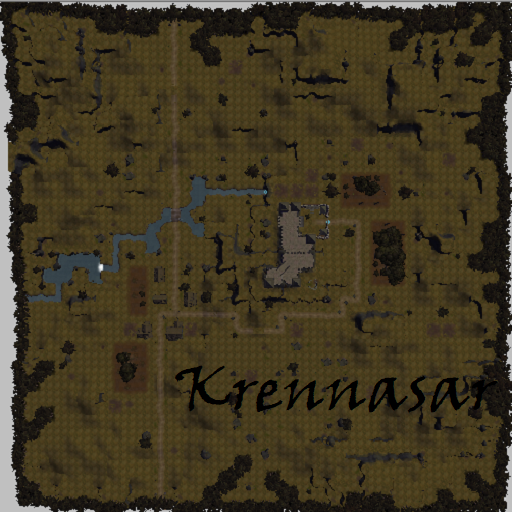
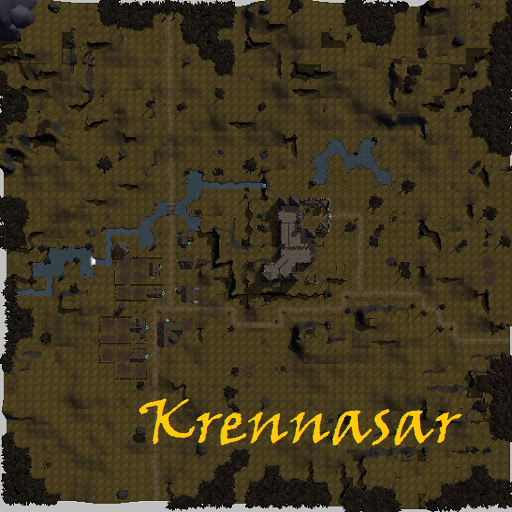
v220122

diff --git a/common.js b/common.js
@@ -17,12 +17,12 @@ var map = {
         '0map',          '0map',          '0map',        '0map',        '0map',         '0map',            '0map',           '0map',            '0map',            '0map',            '0map',            '0map',            '0map',            '0map',            '0map',            '0map',            '0map',            '0map',            '0map',            '0map',           '0map',           '0map',                '0map',            '0map',            '0map',            '0map',         '0map',             '0map',         '0map',         '0map',       
         '0map',          '0map',          '0map',        '0map',        '0map',         '0map',            '0map',           '0map',            '0map',            '0map',            '0map',            '0map',            '0map',            '0map',            '0map',            '0map',            '0map',            '0map',            '0map',            '0map',           '0map',           '0map',                't_varyth_torf_w', 't_varyth_tor',    't_varyth_torf_e', '0map',         '0map',             '0map',         '0map',         '0map',       
         't_zazesspur_nw','t_zazesspur_ne','0map',        '0map',        '0map',         '0map',            '0map',           '0map',            '0map',            '0map',            '0map',            '0map',            '0map',            '0map',            '0map',            '0map',            '0map',            '0map',            't_lhestyn_quay',  't_masamont_road','t_masamount',    't_masamount_wudn',    't_varyth_torf_sw','t_varyth_torf_s', 't_varyth_torf_se','0map',         '0map',             '0map',         '0map',         '0map',       
-        't_zazesspur_sw','t_zazesspur_se','t_venazir_ne','SulZaz2',     '0map',         '0map',            't_tethyrcast_nw','t_tethyrcast_n',  't_tethyrcast_ne', 'SuldusBard1',     '0map',            'IthmonSulW',      't_hostim_quay',   'IthmonSulE',      't_ithmn_sul_e1',  't_ithmn_sul_e2',  't_grannox',       't_grannox_farms', 't_lhestynheart',  't_freelm_farms', 't_freelmanse',   't_masamount_wuds',    't_varyth_plain_w','t_varyth_plain_c','t_varyth_plain_e','0map',         '0map',             '0map',         '0map',         '0map',       
+        't_zazesspur_sw','t_zazesspur_se','t_venazir_ne','SulZaz2',     '0map',         '0map',            't_tethyrcast_nw','t_tethyrcast_n',  't_tethyrcast_ne', 'SuldusBard1',     '0map',            'IthmonSulW',      't_hostim_quay',   't_ithmn_sul_e',   't_ithmn_sul_e1',  't_ithmn_sul_e2',  't_grannox',       't_grannox_farms', 't_lhestynheart',  't_freelm_farms', 't_freelmanse',   't_masamount_wuds',    't_varyth_plain_w','t_varyth_plain_c','t_varyth_plain_e','0map',         '0map',             '0map',         '0map',         '0map',       
         't_venazir_sw',  't_venazir_s',   't_venazir_se','SulZaz3',     'SulZaz4',      'SulZaz5',         't_tethyrcast_w', 't_tethyrcast',    't_tethyrcast_e',  'SuldusBard2',     'SuldusBard3',     'SuldusBard4',     't_hostim',        '0map',            't_ithmon_crag_nw','t_ithmon_crag_ne','t_lhest_gorge',   't_lhest_farm_sw', 't_lhest_farm_s',  't_lhest_farm_se','t_rivshrehill_n','t_rivshrehill_ne',    't_varyth_hill_nw','t_varyth_hill_n', 't_varyth_hill_ne','t_iltarghal',  '0map',             't_survale',    '0map',         '0map',       
         '0map',          '0map',          'OldKingRoad1','OldKingRoad2','OldKingRoad3', 'OldKingRoad4',    't_tethyrcast_sw','t_tethyrcast_s',  't_tethyrcast_se', '0map',            '0map',            't_hostim_hill_w', 't_hostim_road',   't_hostim_hill_e', 't_ithmon_crag_sw','t_ithmon_crag_se', 't_qonsir',        't_qonsir_farm',   't_lhest_road',    't_rivshrehill_w','t_rivshrehill_c','t_st_ostus',          't_varyth_hill_sw','t_varyth_hill_s', 't_varyth_hill_se','0map',         '0map',             '0IthalRoadNS', '0map',         '0map',       
         '0map',          '0map',          '0map',        '0map',        '0map',         't_sahark_crossrd','t_saharkhan',    't_bardshy_itr_1', 't_bardshy_itr_2', 't_bardshy_itr_3', 't_bardshy_itr_4', 't_ithmon_ithr_w1','t_ithmon_ithr_w2','t_ithmon_lorcros','t_ithmon_ithr_e1','t_ithmon_ithr_e2','t_rvrshr_ithrdw', 't_crownfarms_nw', 't_crownfarms_n',  't_crownfarms_ne','t_rivshrehill_s','t_rivshrehill_se',    '0map',            '0map',            't_thrynnar_hold', '0IthalRoadWE', '0IthalRoadWE',     '0IthalRoadNWE','0IthalRoadWS', '0map',       
-        '0map',          '0map',          '0map',        '0map',        '0map',         '0IthalRoadNS',    '0map',           '0map',            '0map',            '0map',            '0map',            '0map',            't_ithmon_farm_nw','t_ithmon_farm_n', 't_ithmon_farm_ne','t_loransewood_n', 't_crownfarms_iw2','t_crownfarms_iw1','t_darromar',      't_foyen_rd',     't_foyen',        '0map',                '0map',            '0map',            '0IthalRoadNS',    '0map',         '0map',             '0map',         '0IthalRoadEN', 't_veaddakar',       
-        '0map',          '0map',          '0map',        't_dasaajk',   '0map',         '0IthalRoadNS',    '0map',           '0map',            '0map',            '0map',            '0map',            '0map',            't_ithmon_farm_w', 't_ithmon_loranse','t_ithmon_farm_e', 't_loransewood_s', '0map',            't_clov_fld_nw',   't_clov_fld_itr_n','0map',           '0map',           '0map',                '0IthalRoadES',    '0IthalRoadWE',    '0IthalRoadWN',    '0map',         '0map',             '0map',         '0map',         '0map',       
+        '0map',          '0map',          '0map',        '0map',        '0map',         't_soldieroad_1',  '0map',           '0map',            '0map',            '0map',            '0map',            '0map',            't_ithmon_farm_nw','t_ithmon_farm_n', 't_ithmon_farm_ne','t_loransewood_n', 't_crownfarms_iw2','t_crownfarms_iw1','t_darromar',      't_foyen_rd',     't_foyen',        '0map',                '0map',            '0map',            '0IthalRoadNS',    '0map',         '0map',             '0map',         '0IthalRoadEN', 't_veaddakar',       
+        '0map',          '0map',          '0map',        't_dasaajk',   '0map',         't_soldieroad_2',  '0map',           '0map',            '0map',            '0map',            '0map',            '0map',            't_ithmon_farm_w', 't_ithmon_loranse','t_ithmon_farm_e', 't_loransewood_s', '0map',            't_clov_fld_nw',   't_clov_fld_itr_n','0map',           '0map',           '0map',                '0IthalRoadES',    '0IthalRoadWE',    '0IthalRoadWN',    '0map',         '0map',             '0map',         '0map',         '0map',       
         '0map',          't_vineshade',   '0map',        '0map',        '0map',         't_krennasar',     '0map',           '0map',            '0map',            '0map',            '0map',            '0map',            '0map',            '0map',            '0map',            '0map',            't_ruba',          '0IthalRoadWE',    't_clov_fld_itr_s','0IthalRoadWES',  '0IthalRoadWE',   '0IthalRoadWE',        '0IthalRoadNWS',   '0map',            '0map',            '0map',         '0map',             '0map',         '0map',         '0map',       
         '0map',          '0map',          '0map',        '0map',        '0IthalRoadES', '0IthalRoadWN',    '0map',           '0map',            '0map',            '0map',            '0map',            '0map',            '0map',            '0map',            '0map',            '0map',            '0IthalRoadNS',    '0map',            '0map',            't_abbor',        '0map',           '0map',                '0IthalRoadNES',   '0IthalRoadWE',    '0IthalRoadWE',    '0IthalRoadWE', '0IthalRoadWS',     '0map',         '0map',         '0map',       
         '0map',          '0map',          '0map',        't_refields_n','t_refields_ne','0map',            '0map',           '0map',            '0map',            '0map',            '0map',            '0map',            '0map',            '0map',            't_pelmarin',      '0IthalRoadWE',    '0IthalRoadWN',    '0map',            '0map',            '0map',           '0map',           '0map',                't_mistletoe',     '0map',            '0map',            '0map',         '0IthalRoadNES',    '0IthalRoadWE', '0IthalRoadWES','t_barakmordin',       
